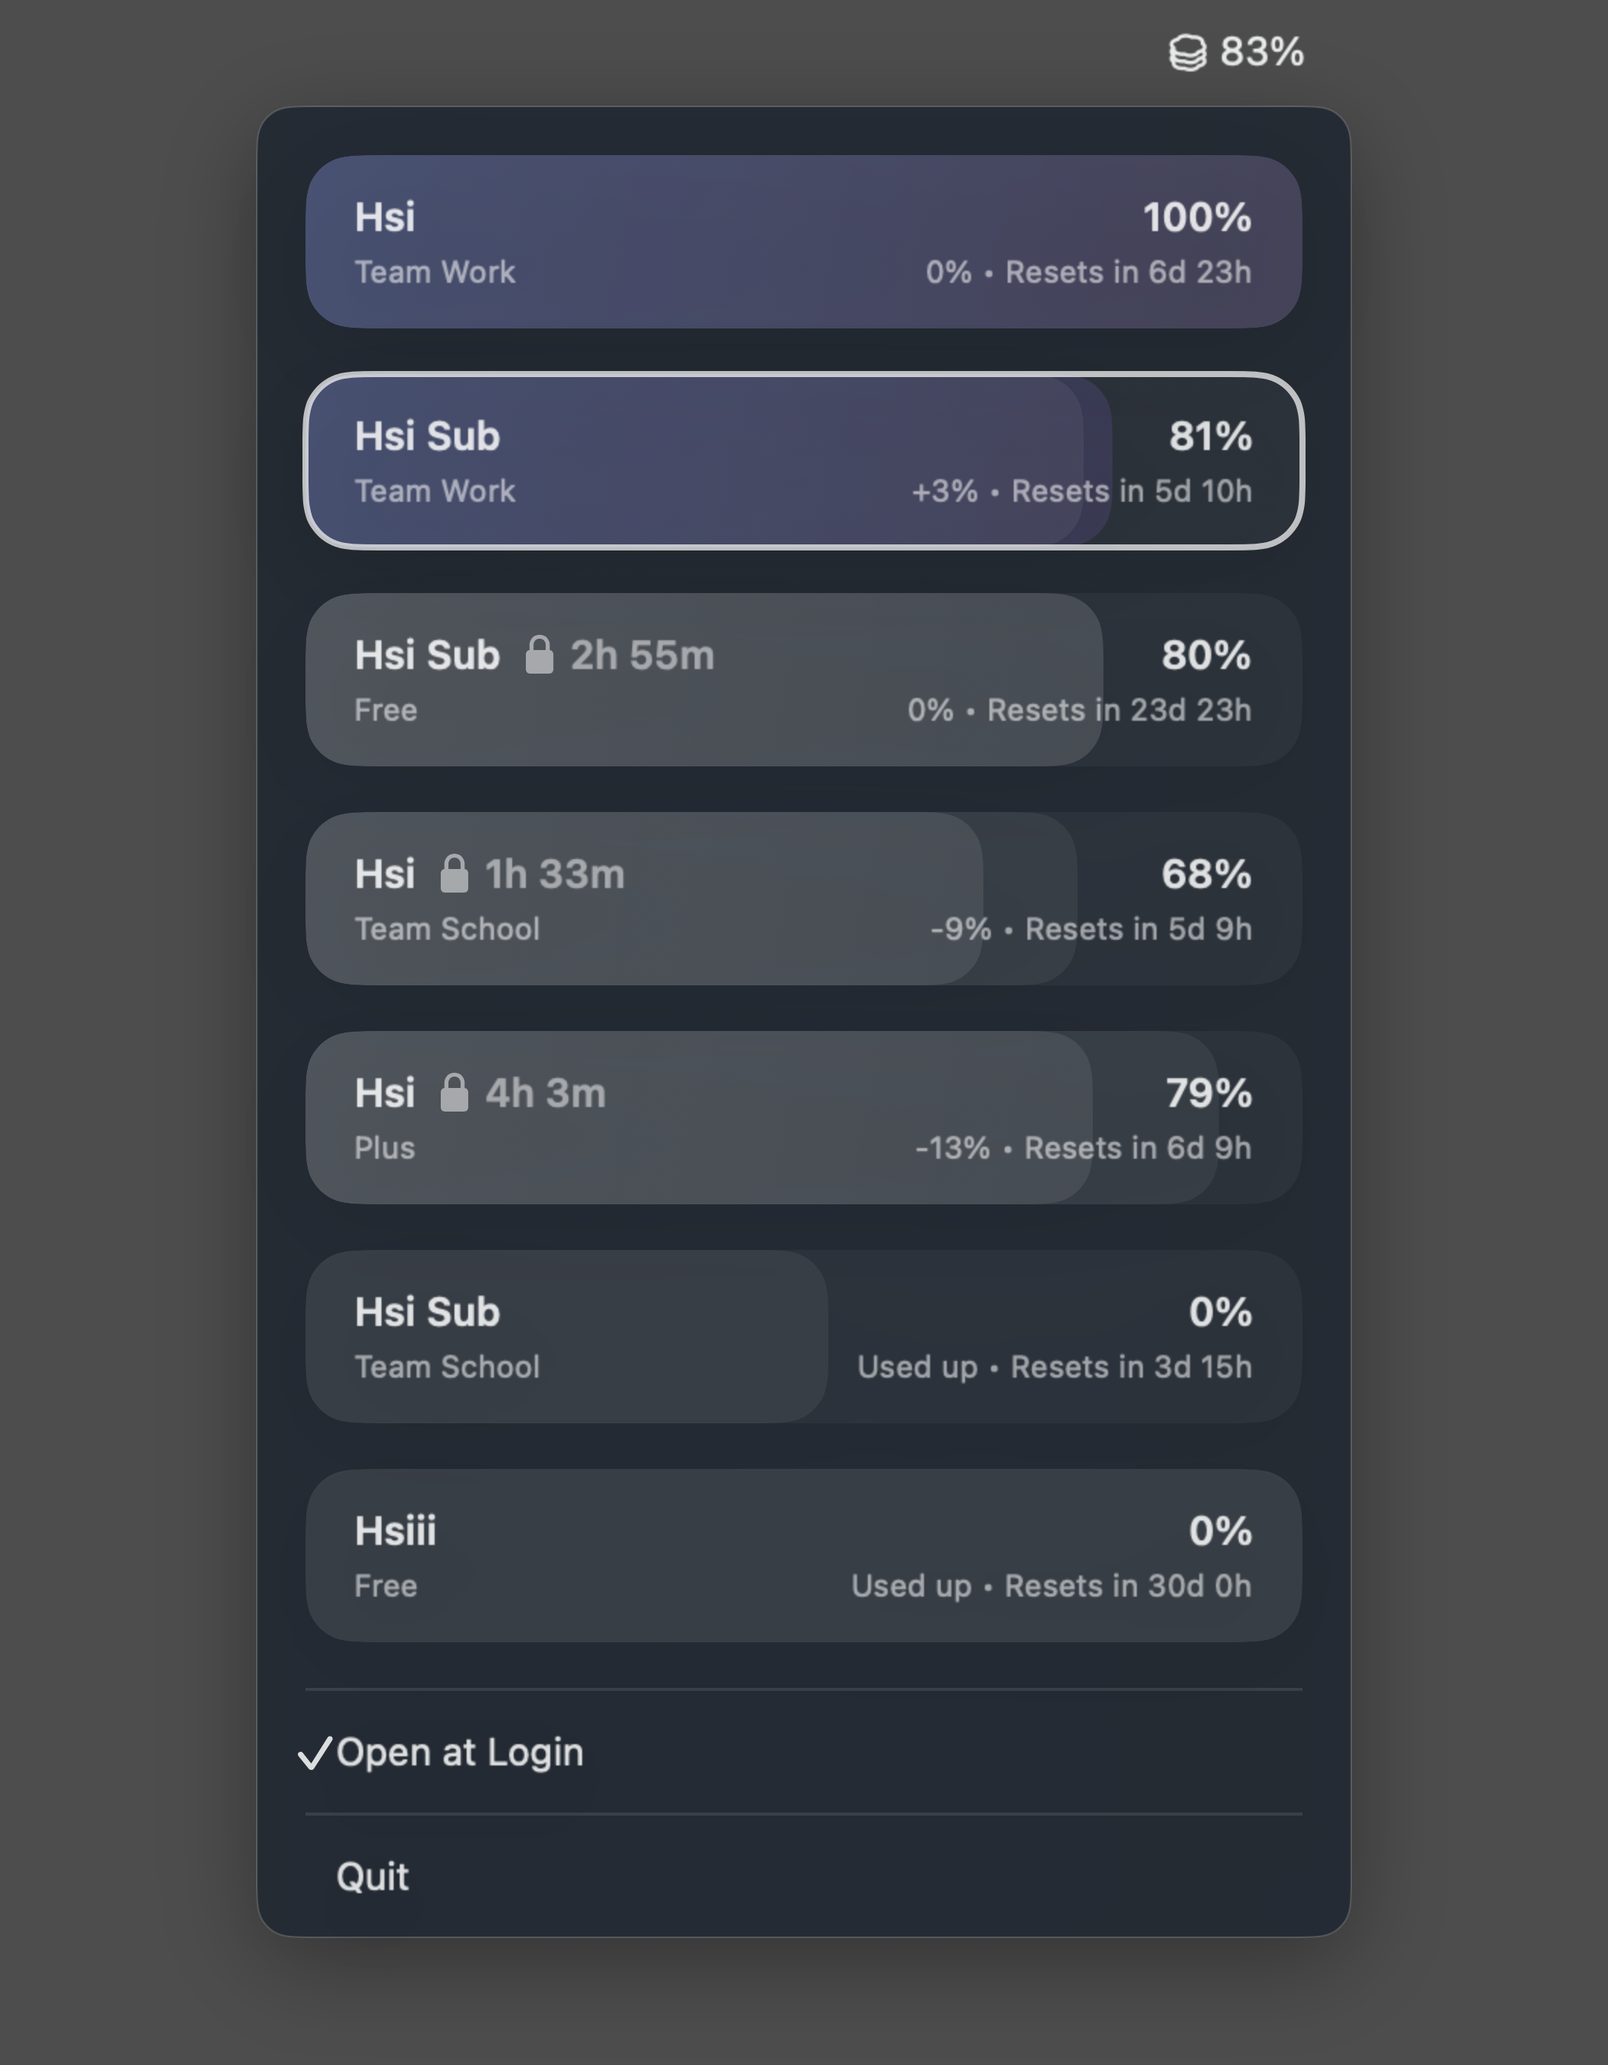
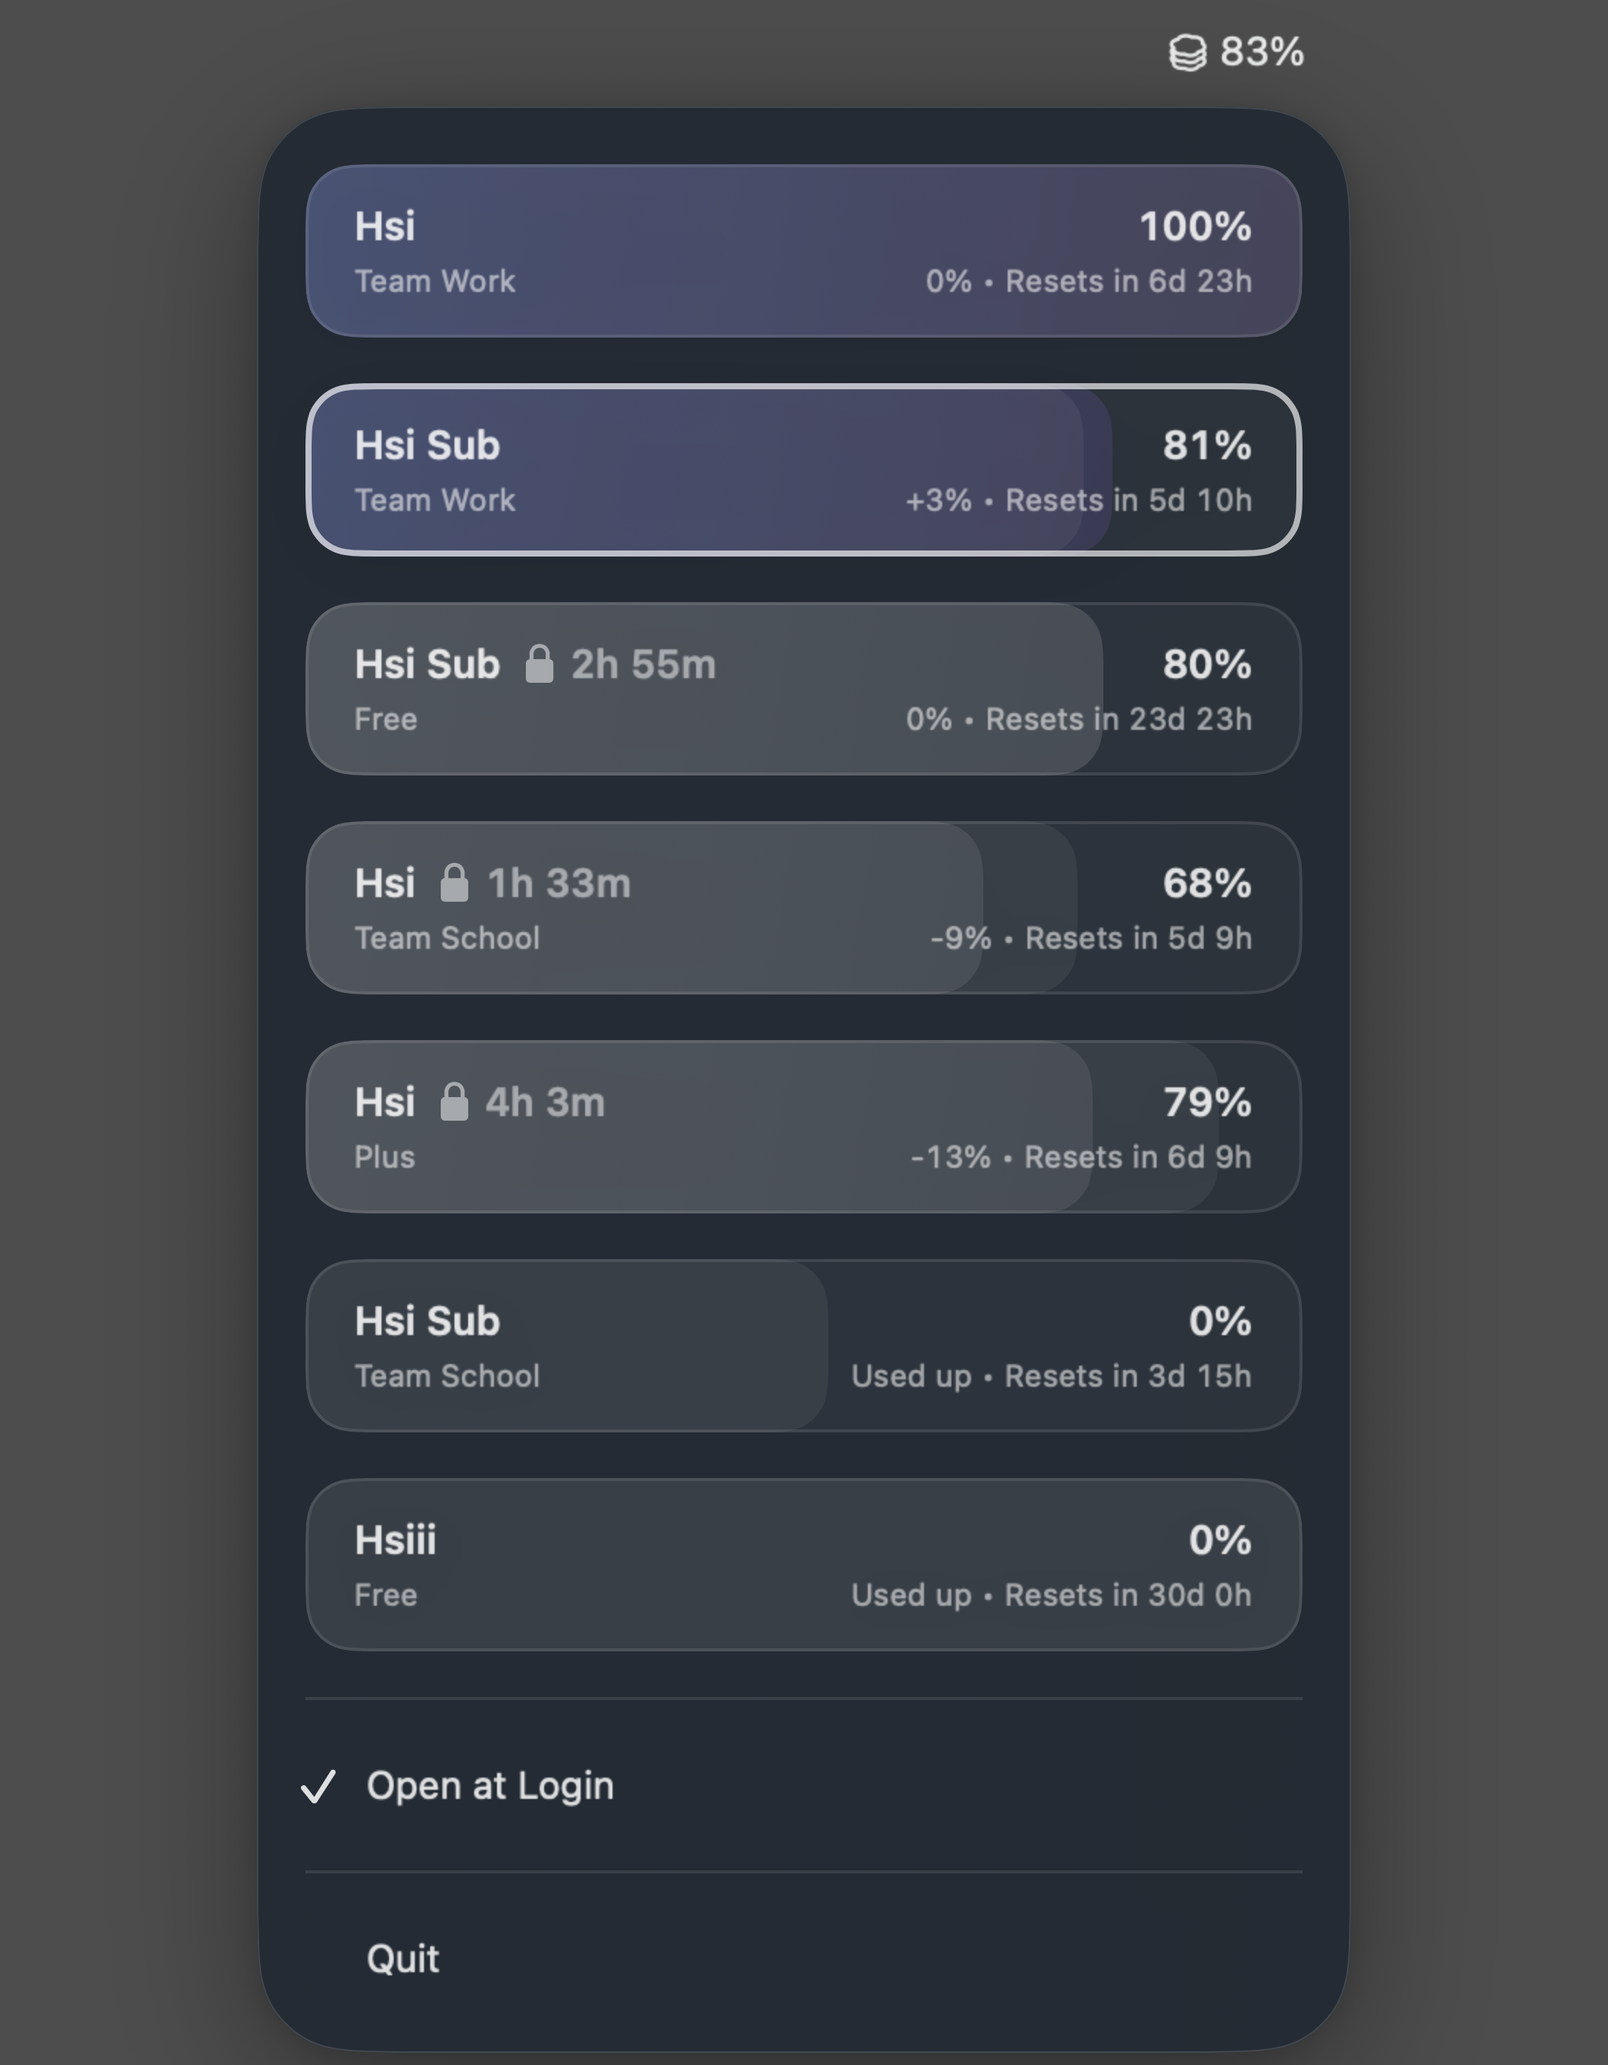
feat(ui): polish menu panel surfaces

diff --git a/src/Menu.swift b/src/Menu.swift
@@ -12,22 +12,24 @@ private struct ViewHeightKey: PreferenceKey {
 // Layout constants and helpers for the menu panel
 private let minPanelHeight: CGFloat = 88
 private let panelWidth: CGFloat = 360
-private let panelCornerRadius: CGFloat = 12
-private let panelOuterPadding: CGFloat = 12
-private let controlHeight: CGFloat = 28
-private let controlDividerSpacing: CGFloat = 6
+let dashboardPanelCornerRadius: CGFloat = 32
+private let panelOuterPadding: CGFloat = 16
+private let controlHeight: CGFloat = 40
+private let controlDividerSpacing: CGFloat = 8
 private let cardBlockEdgePadding: CGFloat = 16
 private let cardBlockHorizontalPadding: CGFloat = 16
 private let cardStackSpacing: CGFloat = 16
 private let controlDividerHorizontalInset: CGFloat = 16
 private let controlRowHorizontalInset: CGFloat = 12
-private let controlTextLeadingInset: CGFloat = 14
-private let controlHoverInset: CGFloat = 6
+private let controlCheckmarkColumnWidth: CGFloat = 16
+private let controlIconTextSpacing: CGFloat = 8
+private let controlHoverInset: CGFloat = 8
 private let controlHoverCornerRadius: CGFloat = 8
 private let editDialogWidth: CGFloat = 328
 private let editDialogOuterPadding: CGFloat = 20
 private let editDialogContentSpacing: CGFloat = 16
 private let editDialogButtonSpacing: CGFloat = 12
+private let accountDialogCornerRadius: CGFloat = 20
 
 private var controlSectionBottomPadding: CGFloat {
     controlHoverInset
@@ -126,9 +128,32 @@ private struct LiquidGlassMaterialView: NSViewRepresentable {
     }
 }
 
+struct DashboardPanelChrome: View {
+    private var panelShape: RoundedRectangle {
+        RoundedRectangle(cornerRadius: dashboardPanelCornerRadius, style: .continuous)
+    }
+
+    var body: some View {
+        panelShape
+            .fill(Color(red: 0.12, green: 0.16, blue: 0.2).opacity(0.9))
+            .background {
+                panelShape
+                    .fill(.ultraThinMaterial)
+            }
+            .clipShape(panelShape)
+            .overlay {
+                panelShape
+                    .strokeBorder(Color.white.opacity(0.14), lineWidth: 0.5)
+            }
+            .shadow(color: Color.black.opacity(0.32), radius: 24, x: 0, y: 12)
+            .shadow(color: Color.black.opacity(0.16), radius: 4, x: 0, y: 1)
+    }
+}
+
 private struct ControlRowButtonStyle: ButtonStyle {
     func makeBody(configuration: Configuration) -> some View {
         configuration.label
+            .scaleEffect(configuration.isPressed ? 0.96 : 1)
             .animation(.easeOut(duration: 0.12), value: configuration.isPressed)
     }
 }
@@ -204,13 +229,13 @@ private struct ControlRowContent: View {
     }
 
     var body: some View {
-        HStack(spacing: 0) {
+        HStack(spacing: controlIconTextSpacing) {
             Image(systemName: "checkmark")
                 .font(.system(size: 13, weight: .semibold))
                 .symbolRenderingMode(.monochrome)
                 .foregroundStyle(.primary)
                 .opacity(showsCheckmark ? 1 : 0)
-                .frame(width: controlTextLeadingInset, alignment: .center)
+                .frame(width: controlCheckmarkColumnWidth, height: controlHeight, alignment: .center)
 
             Text(title)
                 .font(.system(size: 12.5, weight: .regular))
@@ -264,6 +289,7 @@ private struct EditDisplayNameSheet: View {
             VStack(alignment: .leading, spacing: 8) {
                 Text("Edit Display Name")
                     .font(.title3.weight(.semibold))
+                    .fixedSize(horizontal: false, vertical: true)
 
                 Text("Choose the name shown for \(account.email).")
                     .font(.callout)
@@ -305,6 +331,7 @@ private struct RemoveAccountSheet: View {
             VStack(alignment: .leading, spacing: 8) {
                 Text("Remove Account")
                     .font(.title3.weight(.semibold))
+                    .fixedSize(horizontal: false, vertical: true)
 
                 Text("Remove the saved account for \(account.email) from Comux?")
                     .font(.callout)
@@ -330,6 +357,10 @@ private struct RemoveAccountSheet: View {
             .padding(12)
             .frame(maxWidth: .infinity, alignment: .leading)
             .background(Color.white.opacity(0.05), in: RoundedRectangle(cornerRadius: 12, style: .continuous))
+            .overlay {
+                RoundedRectangle(cornerRadius: 12, style: .continuous)
+                    .strokeBorder(Color.white.opacity(0.08), lineWidth: 1)
+            }
 
             Text("This only removes the saved account from Comux. It does not change the underlying ChatGPT account.")
                 .font(.caption)
@@ -522,46 +553,56 @@ struct PulseMenuView: View {
 
     var body: some View {
         ZStack {
-            SlimDashboardPanelView(
-                coordinator: coordinator,
-                displayNameStore: displayNameStore,
-                launchAtLoginStore: launchAtLoginStore,
-                measuredContentHeight: self.$dashboardContentHeight,
-                panelHeight: self.panelHeight,
-                onEditDisplayNameRequested: { account in
-                    self.promptForDisplayName(account)
-                },
-                onRemoveRequested: { account in
-                    self.promptForRemoval(account)
-                }
-            )
+            DashboardPanelChrome()
 
-            if let route = self.activeDialog {
-                Color.black.opacity(0.28)
-                    .ignoresSafeArea()
-
-                self.accountDialog(for: route)
-                    .background(
-                        LiquidGlassMaterialView(material: .hudWindow)
-                            .overlay {
-                                LinearGradient(
-                                    colors: [
-                                        Color.white.opacity(0.14),
-                                        Color.white.opacity(0.04),
-                                    ],
-                                    startPoint: .topLeading,
-                                    endPoint: .bottomTrailing
-                                )
-                            }
-                            .clipShape(RoundedRectangle(cornerRadius: 16, style: .continuous))
-                    )
-                    .overlay {
-                        RoundedRectangle(cornerRadius: 16, style: .continuous)
-                            .strokeBorder(Color.white.opacity(0.16), lineWidth: 1)
+            ZStack {
+                SlimDashboardPanelView(
+                    coordinator: coordinator,
+                    displayNameStore: displayNameStore,
+                    launchAtLoginStore: launchAtLoginStore,
+                    measuredContentHeight: self.$dashboardContentHeight,
+                    panelHeight: self.panelHeight,
+                    onEditDisplayNameRequested: { account in
+                        self.promptForDisplayName(account)
+                    },
+                    onRemoveRequested: { account in
+                        self.promptForRemoval(account)
                     }
-                    .shadow(color: Color.black.opacity(0.28), radius: 20, y: 10)
-                    .transition(.opacity.combined(with: .scale(scale: 0.98)))
+                )
+
+                if let route = self.activeDialog {
+                    Color.black.opacity(0.28)
+                        .ignoresSafeArea()
+
+                    self.accountDialog(for: route)
+                        .background(
+                            LiquidGlassMaterialView(material: .hudWindow)
+                                .overlay {
+                                    LinearGradient(
+                                        colors: [
+                                            Color.white.opacity(0.14),
+                                            Color.white.opacity(0.04),
+                                        ],
+                                        startPoint: .topLeading,
+                                        endPoint: .bottomTrailing
+                                    )
+                                }
+                                .clipShape(RoundedRectangle(cornerRadius: accountDialogCornerRadius, style: .continuous))
+                        )
+                        .overlay {
+                            RoundedRectangle(cornerRadius: accountDialogCornerRadius, style: .continuous)
+                                .strokeBorder(Color.white.opacity(0.14), lineWidth: 1)
+                        }
+                        .shadow(color: Color.black.opacity(0.28), radius: 20, y: 10)
+                        .transition(
+                            .asymmetric(
+                                insertion: .opacity.combined(with: .scale(scale: 0.96)),
+                                removal: .opacity.combined(with: .offset(y: -12))
+                            )
+                        )
+                }
             }
+            .clipShape(RoundedRectangle(cornerRadius: dashboardPanelCornerRadius, style: .continuous))
         }
         .frame(width: panelWidth, height: self.panelHeight)
         .background(.clear)

diff --git a/src/Card.swift b/src/Card.swift
@@ -3,6 +3,9 @@ import SwiftUI
 
 private let accountCardHeight: CGFloat = 56
 private let accountCardCornerRadius: CGFloat = 16
+private let accountCardSurfaceRingWidth: CGFloat = 1
+private let accountCardActiveRingWidth: CGFloat = 2
+private let accountCardHoverAnimationDuration: TimeInterval = 0.16
 
 enum WindowHeaderPlacement {
     case above
@@ -51,6 +54,7 @@ struct WindowCardView: View {
             Text(resetPaceText(for: window))
                 .font(.caption.weight(.semibold))
                 .foregroundStyle(.secondary)
+                .monospacedDigit()
         }
     }
 
@@ -273,6 +277,7 @@ struct HeaderIdentityClusterView: View {
                     Text(formatCountdown(rollingWindow.resetsAt))
                         .font(nameFont)
                         .lineLimit(1)
+                        .monospacedDigit()
                 }
                 .foregroundStyle(Color.white.opacity(0.5))
             }
@@ -368,6 +373,34 @@ struct WeeklyUsageSurfaceView<Content: View>: View {
         isHovered ? 0.056 : 0.04
     }
 
+    private var surfaceRingOpacity: Double {
+        if isActive {
+            return 0.64
+        }
+
+        return isHovered ? 0.16 : 0.1
+    }
+
+    private var surfaceRingWidth: CGFloat {
+        isActive ? accountCardActiveRingWidth : accountCardSurfaceRingWidth
+    }
+
+    private var surfaceShadowOpacity: Double {
+        if isActive {
+            return 0.18
+        }
+
+        return isHovered ? 0.14 : 0.08
+    }
+
+    private var surfaceShadowRadius: CGFloat {
+        isHovered || isActive ? 12 : 8
+    }
+
+    private var surfaceShadowYOffset: CGFloat {
+        isHovered || isActive ? 4 : 2
+    }
+
     var body: some View {
         content
             .padding(contentInsets)
@@ -409,11 +442,17 @@ struct WeeklyUsageSurfaceView<Content: View>: View {
             }
             .clipShape(surfaceShape)
             .overlay {
-                if isActive {
-                    surfaceShape
-                        .stroke(Color.white.opacity(0.7), lineWidth: 2)
-                }
+                surfaceShape
+                    .strokeBorder(Color.white.opacity(surfaceRingOpacity), lineWidth: surfaceRingWidth)
             }
+            .shadow(
+                color: Color.black.opacity(surfaceShadowOpacity),
+                radius: surfaceShadowRadius,
+                x: 0,
+                y: surfaceShadowYOffset
+            )
+            .animation(.easeOut(duration: accountCardHoverAnimationDuration), value: isHovered)
+            .animation(.easeOut(duration: accountCardHoverAnimationDuration), value: isActive)
     }
 }
 
@@ -577,6 +616,7 @@ struct AccountCardView: View {
 
                     Text(percentageText(for: account.weeklyWindow))
                         .font(.headline.weight(.semibold))
+                        .monospacedDigit()
                         .fixedSize(horizontal: true, vertical: false)
                 }
 
@@ -594,6 +634,7 @@ struct AccountCardView: View {
                         .font(.caption)
                         .foregroundStyle(.secondary)
                         .lineLimit(1)
+                        .monospacedDigit()
                         .minimumScaleFactor(0.75)
                         .fixedSize(horizontal: false, vertical: true)
                 }
@@ -629,6 +670,7 @@ struct AccountCardView: View {
                     Text(formatCountdown(account.rollingWindow.resetsAt))
                         .font(.headline.weight(.semibold))
                         .lineLimit(1)
+                        .monospacedDigit()
                 }
                 .foregroundStyle(Color.white.opacity(0.5))
             }

diff --git a/tools/DemoMockup.swift b/tools/DemoMockup.swift
@@ -9,10 +9,9 @@ private let windowSize = CGSize(
 )
 private let menuBarHeight: CGFloat = 35
 private let panelWidth: CGFloat = 360
-private let panelHeight: CGFloat = 602
+private let panelHeight: CGFloat = 640
 private let panelLeading = (canvasSize.width - panelWidth) / 2
 private let panelTopOffset = menuBarHeight
-private let panelCornerRadius: CGFloat = 12
 private let iconPath = "assets/icon.png"
 private let day: TimeInterval = 24 * 60 * 60
 private let hour: TimeInterval = 60 * 60
@@ -76,20 +75,10 @@ private struct DemoMockupView: View {
             onRemoveRequested: { _ in }
         )
         .frame(width: panelWidth, height: panelHeight)
-        .background(
-            RoundedRectangle(cornerRadius: panelCornerRadius, style: .continuous)
-                .fill(Color(red: 0.12, green: 0.16, blue: 0.2).opacity(0.9))
-                .background(
-                    RoundedRectangle(cornerRadius: panelCornerRadius, style: .continuous)
-                        .fill(.ultraThinMaterial)
-                )
-                .clipShape(RoundedRectangle(cornerRadius: panelCornerRadius, style: .continuous))
-        )
-        .overlay {
-            RoundedRectangle(cornerRadius: panelCornerRadius, style: .continuous)
-                .stroke(Color.white.opacity(0.18), lineWidth: 0.5)
+        .clipShape(RoundedRectangle(cornerRadius: dashboardPanelCornerRadius, style: .continuous))
+        .background {
+            DashboardPanelChrome()
         }
-        .shadow(color: .black.opacity(0.34), radius: 16, x: 0, y: 8)
     }
 }
 
